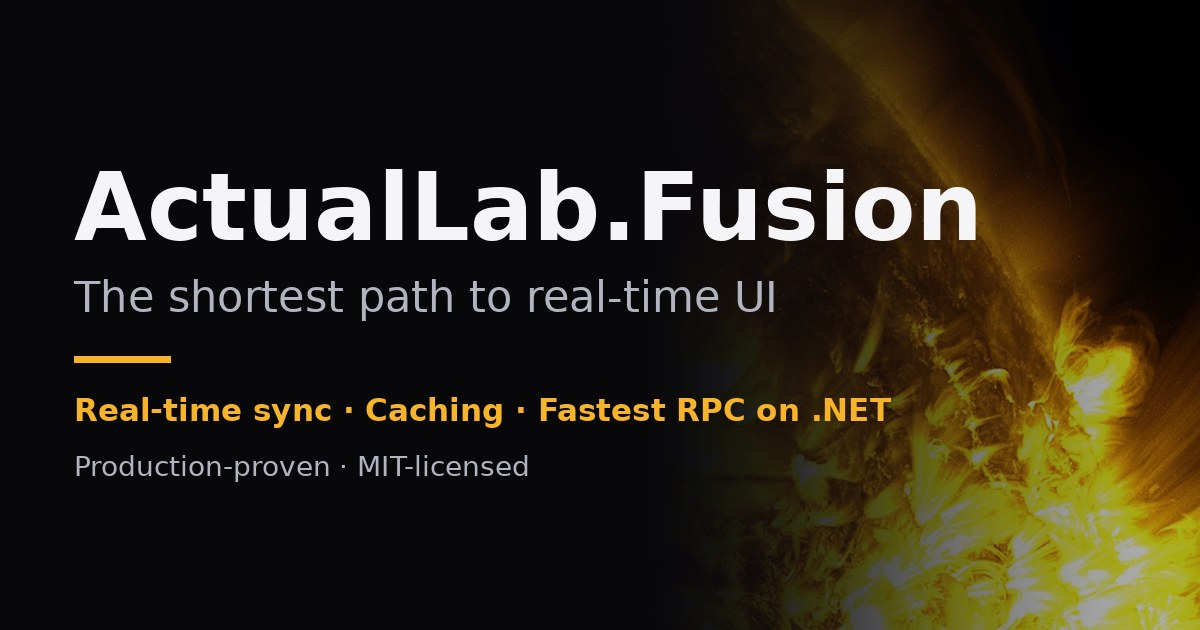
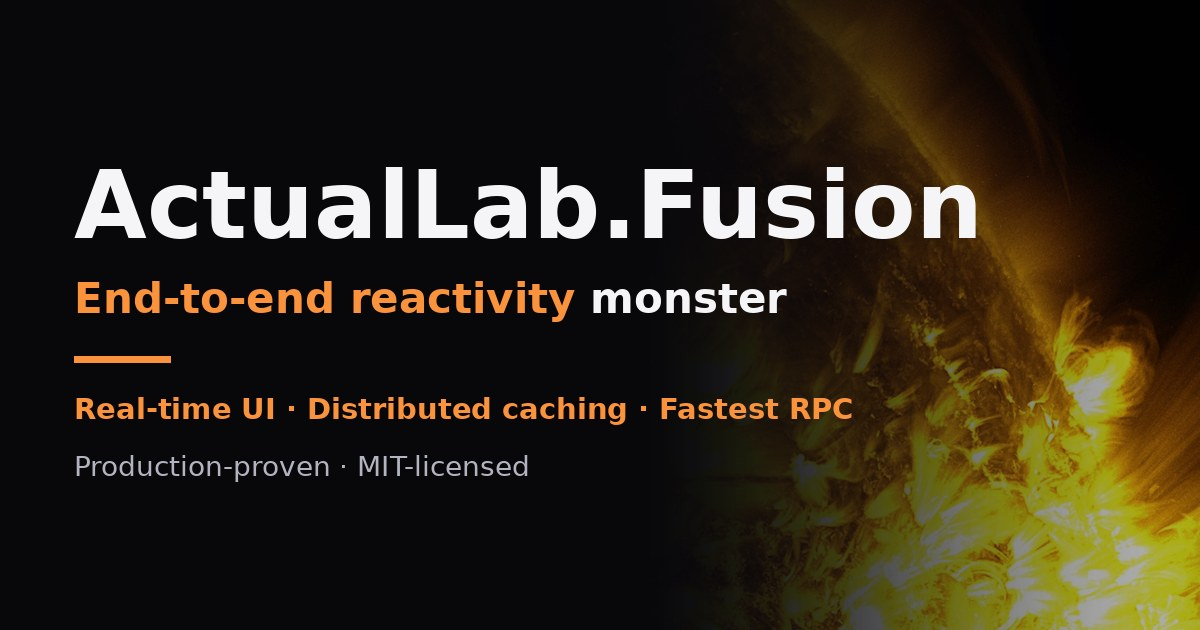
docs: refresh homepage copy and social card
- Hero subtitle: "End-to-end reactivity monster."
- Tagline reworked: "Bring real-time UI updates and distributed caching
  to any .NET/TypeScript app. ..."
- Updated <title>, meta description, and the site-wide fallback
  description to match the new messaging.
- Renamed the first feature card "Real-Time Magic" -> "End-to-End
  Reactivity" and updated its icon.
- Regenerated og-image.jpg to reflect the new copy.
- Removed the now-unused --hl-nocode CSS variable.

diff --git a/docs/index.md b/docs/index.md
@@ -1,13 +1,13 @@
 ---
 layout: home
-title: ActualLab.Fusion — Real-Time UI & Caching for .NET
+title: ActualLab.Fusion — The End-to-End Reactivity Framework
 titleTemplate: false
-description: ActualLab.Fusion adds real-time updates and caching to any .NET app with almost no code changes — 10⁶ scale headroom, the fastest RPC on .NET, MIT-licensed.
+description: ActualLab.Fusion brings real-time UI updates and distributed caching to any .NET/TypeScript app — 10⁶ scale headroom, the fastest RPC, MIT-licensed.
 
 hero:
   name: ActualLab.Fusion
-  text: The shortest path to real-time UI.
-  tagline: Add <span style="color:var(--hl-rt);">real-time updates</span> and <span style="color:var(--hl-cache);">caching</span> to any .NET app with <span style="color:var(--hl-nocode);">almost no</span> code <span style="color:var(--hl-nocode);">changes</span>. Get <span style="color:var(--hl-scale);">10⁶ scale</span> headroom. Production-proven. <span style="color:var(--hl-mit);">MIT license.</span>
+  text: <span style="color:var(--hl-rt);">End-to-end reactivity</span> monster.
+  tagline: Bring <span style="color:var(--hl-rt);">real-time UI updates</span> and <span style="color:var(--hl-cache);">distributed caching</span> to any .NET/TypeScript app. Get <span style="color:var(--hl-scale);">10⁶ scale</span> headroom. Production-proven. <span style="color:var(--hl-mit);">MIT license.</span>
   actions:
     - theme: brand
       text: Documentation
@@ -26,8 +26,8 @@ hero:
       link: https://voxt.ai/chat/s-1KCdcYy9z2-uJVPKZsbEo
 
 features:
-  - icon: 🪄
-    title: Real-Time Magic
+  - icon: ✨
+    title: End-to-End Reactivity
     details: "Automatic <span style='color:var(--hl-feat);'>state sync</span> across your <span style='color:var(--hl-feat);'>server cluster and every client</span> connected to it. No SignalR hubs. No event handlers. No manual pub/sub."
   - icon: ⚡
     title: Unbeatable Speed
@@ -56,7 +56,6 @@ features:
 :root {
   --hl-rt: #c2410c;
   --hl-cache: #a16207;
-  --hl-nocode: #0e7490;
   --hl-scale: #7c3aed;
   --hl-feat: var(--vp-c-text-1);
   --hl-mit: #15803d;
@@ -64,7 +63,6 @@ features:
 .dark {
   --hl-rt: #fb923c;
   --hl-cache: #fbbf24;
-  --hl-nocode: #22d3ee;
   --hl-scale: #a78bfa;
   --hl-mit: #22c55e;
 }